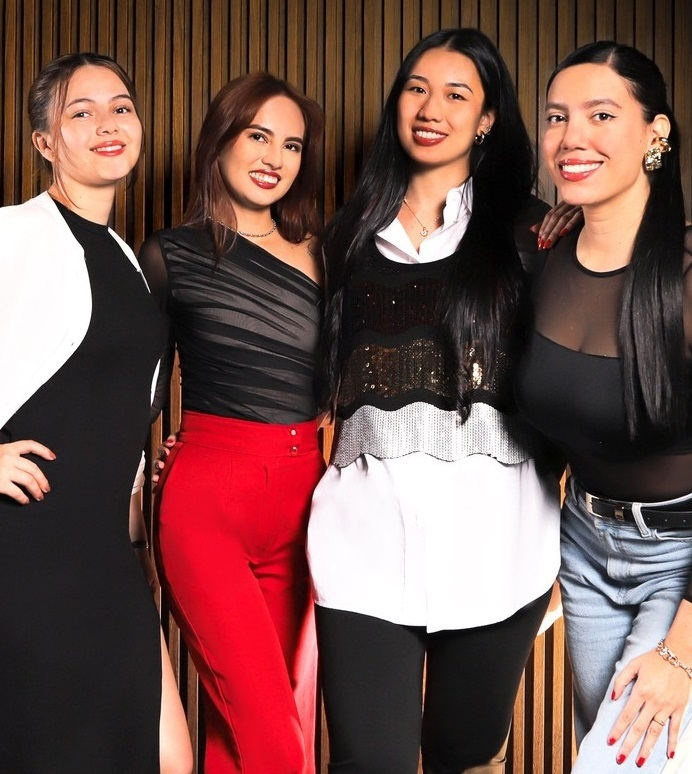
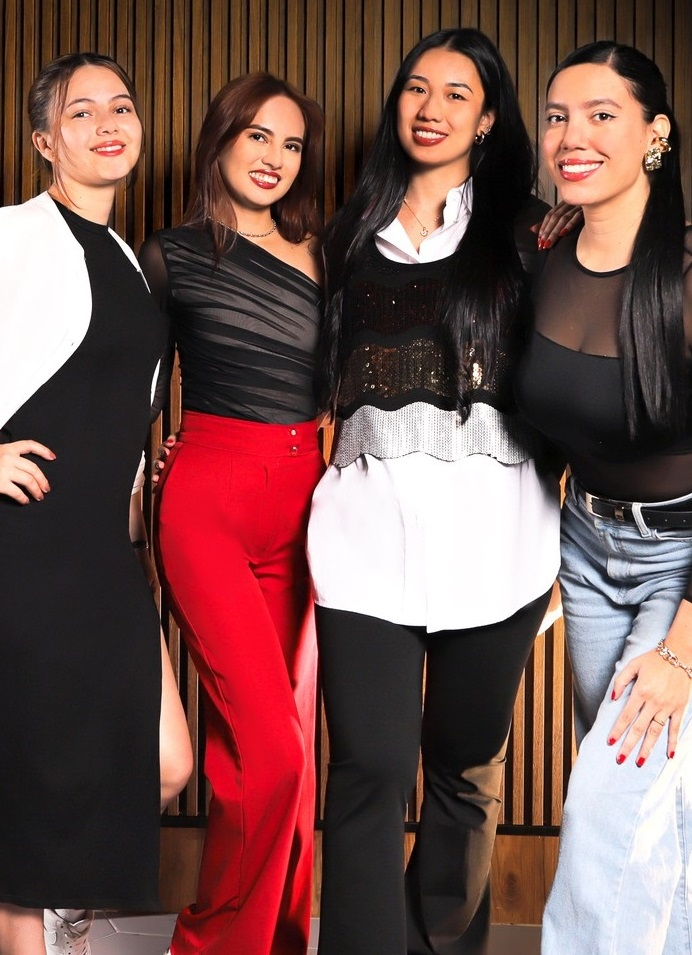
sdsad

diff --git a/components/promociones/promocion/promocion.css b/components/promociones/promocion/promocion.css
@@ -175,6 +175,54 @@
 }
 
 
+.scroll-down-indicator {
+  display: flex;
+  position: absolute;
+  top: 75vh;
+  left: 50%;
+  transform: translateX(-50%);
+  flex-direction: column;
+  align-items: center;
+  gap: 6px;
+  animation: float 2s ease-in-out infinite;
+  z-index: 50;
+}
+
+.arrow {
+  width: 24px;
+  height: 24px;
+  border: solid #efb810;
+  border-width: 0 4px 4px 0;
+  transform: rotate(45deg);
+  opacity: 0.7;
+  animation: bounce 1.2s infinite ease-in-out;
+  transition: opacity 0.3s ease;
+}
+
+.arrow:nth-child(2) {
+  animation-delay: 0.2s;
+}
+
+.arrow:nth-child(3) {
+  animation-delay: 0.4s;
+}
+
+@keyframes bounce {
+
+  0%,
+  100% {
+    transform: translateY(0) rotate(45deg);
+    opacity: 0.7;
+  }
+
+  50% {
+    transform: translateY(10px) rotate(45deg);
+    opacity: 1;
+  }
+}
+
+
+
 @media (max-width: 767px) {
 
     .promocion {

diff --git a/components/juegos/juegos.html b/components/juegos/juegos.html
@@ -74,7 +74,7 @@
                     </div>
                 </div>
                 <div class="apuesta-rigth item">
-                    <img src="/resources/hipodromo.png" alt="Casino Marco Polo 1" />
+                    <img src="/resources/IMG_4480.jpg" alt="Casino Marco Polo 1" />
                 </div>
             </div>
             <div class="apuesta-deportiva view-reverse">
